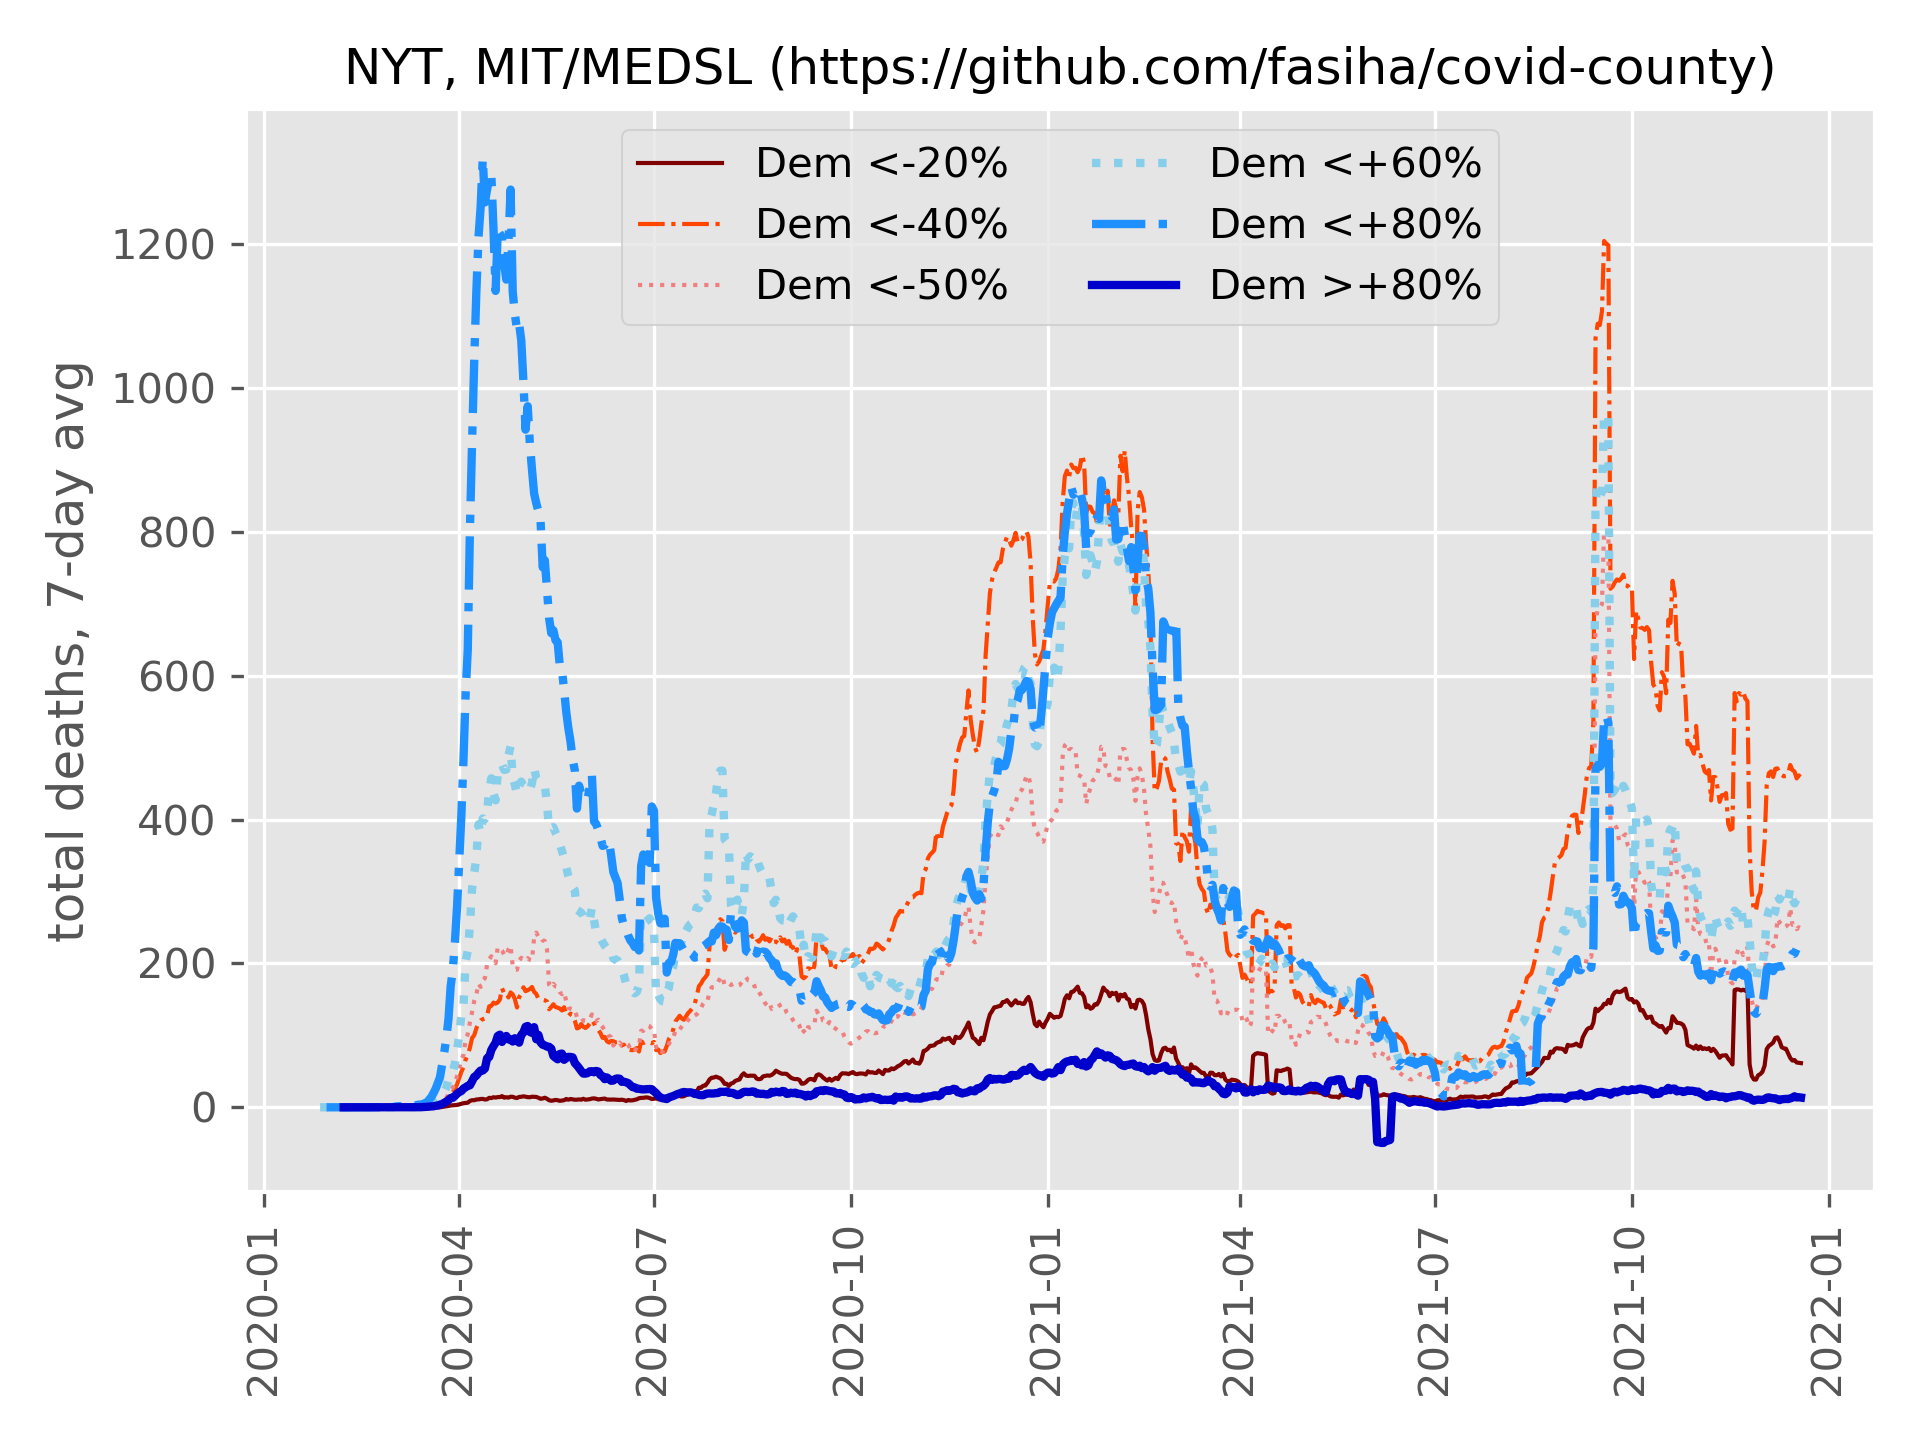
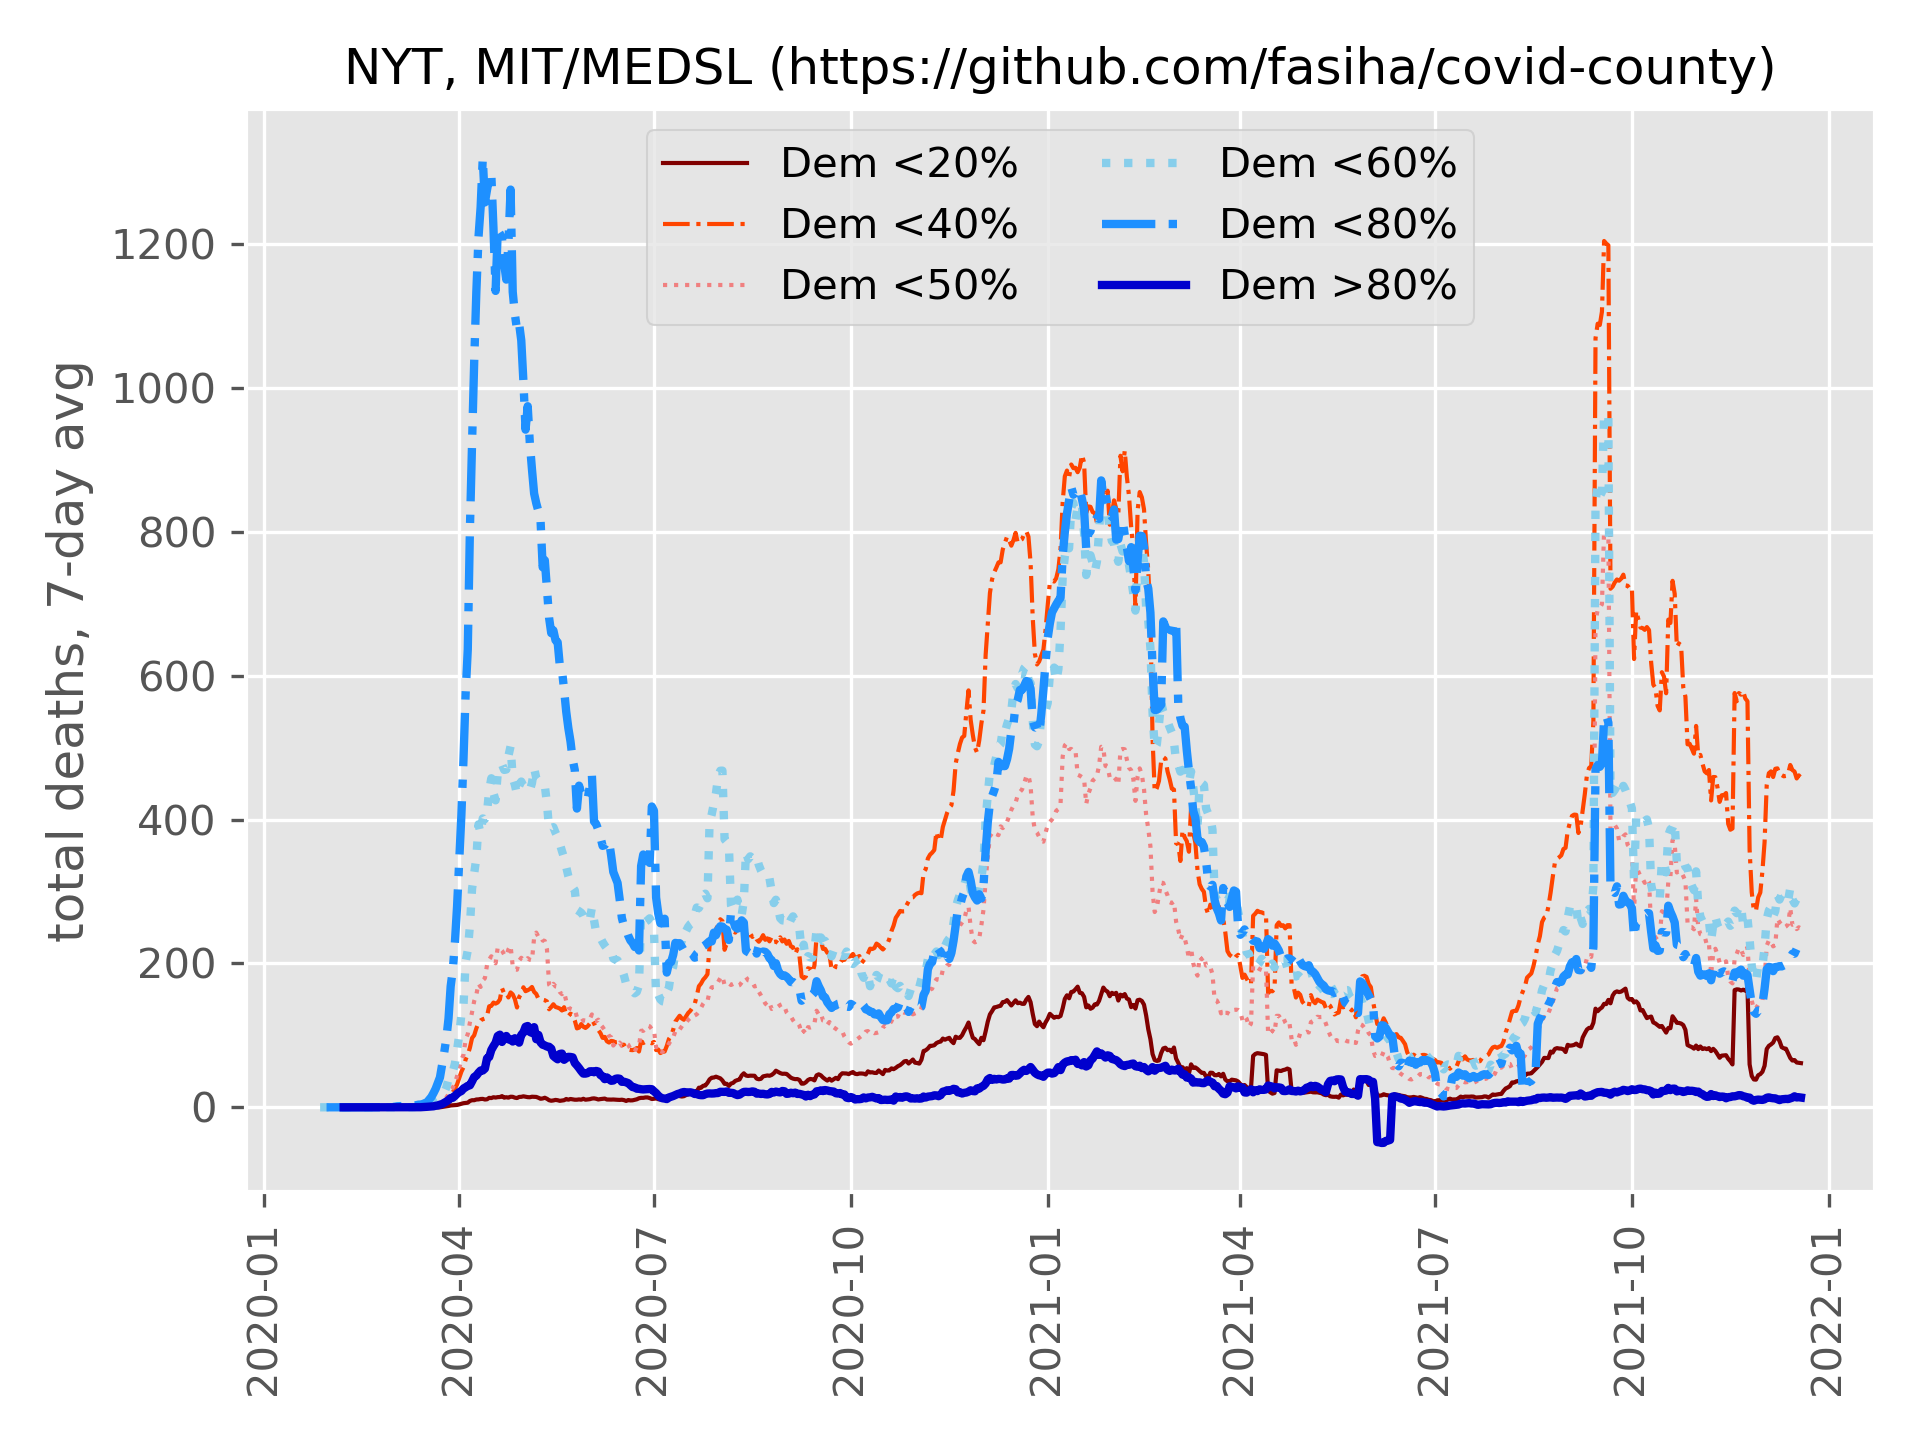
micro-cleanup in legend

Changed region(s): [[0.625, 0.0938, 0.7812, 0.2188], [0.375, 0.0938, 0.5312, 0.2188], [0.5625, 0.0938, 0.5938, 0.125]]

diff --git a/main.py b/main.py
@@ -56,8 +56,7 @@ print(MISSING_VOTE_DATA)
 
 
 def bin_names(edges=(0.2, 0.4, 0.5, 0.6, 0.8)) -> list[str]:
-  return [f'Dem <{"+" if x > 0.5 else "-"}{round(100*x)}%' for x in edges
-         ] + [f'Dem >{"+" if x > 0.5 else "-"}{round(100*x)}%' for x in edges[-1:]]
+  return [f'Dem <{round(100*x)}%' for x in edges] + [f'Dem >{round(100*x)}%' for x in edges[-1:]]
 
 
 def pct_to_bin(pct: float, edges=(0.2, 0.4, 0.5, 0.6, 0.8)):
